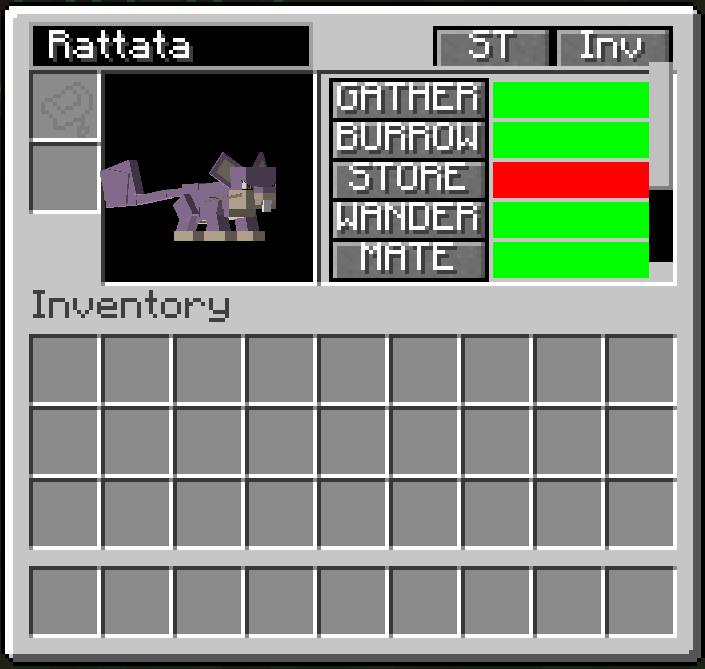
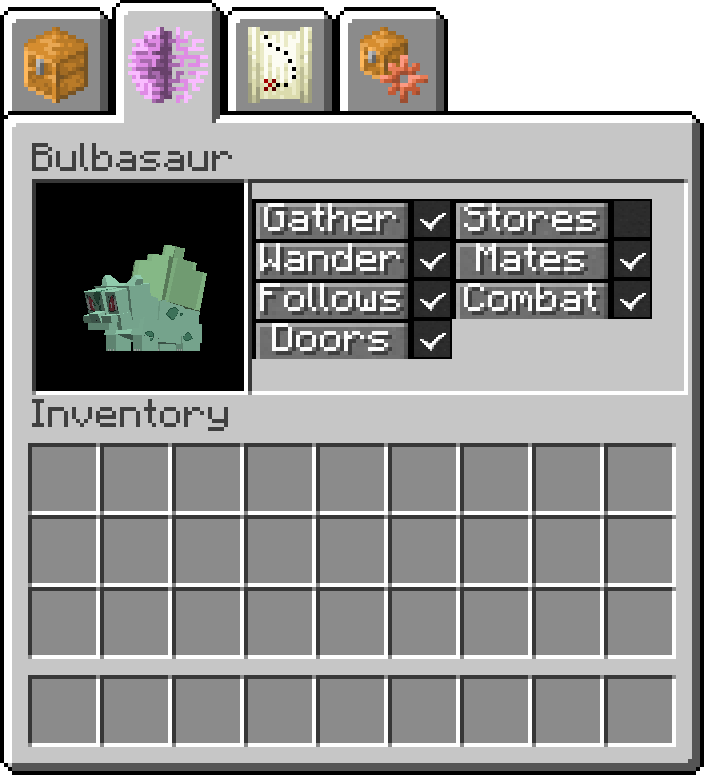
updates page about pokemob gui to include new design

diff --git a/source/getting_started/pokemob_gui.rst b/source/getting_started/pokemob_gui.rst
@@ -9,12 +9,12 @@ You're |pokemob| can be interacted with via right click. Doing so should display
 -  while the pokemob is wearing a saddle - sneaking will allow access to the gui.
 -  you are holding an item that is used on the |pokemob|, such as a pokedex
 
+Most of the buttons, text boxes and slots in this gui have tooltips which describe their function.
+
 |Pokemob| Gui Tabs
 ##################
 
-The |pokemob| gui is separated into a variety of tabs. The main tab is the :ref:`Inventory Tab<poke_inv_tab>`. The gui generally has buttons along the top right side of the screen, which allow changing to different tabs.
-
-Screens where the |pokemob|'s name is visible can be used to change the nickname of the |pokemob|. This can be done by typing a different name into the box, and pressing Enter.
+The |pokemob| gui is separated into a variety of tabs. The main tab is the :ref:`Inventory Tab<poke_inv_tab>`. The tabs are located along to top of the screen, which allow changing to different tabs. Each tab has a tooltip when hovored to display the name of the tab.
 
 .. _poke_inv_tab:
 
@@ -28,7 +28,7 @@ Screens where the |pokemob|'s name is visible can be used to change the nickname
    
    A |pokemob|'s main inventory screen
 
-This tab is selected via the buttons labelled ``inv``.
+This is the default tab for the |pokemob|'s gui.
 
 The |pokemob|'s main inventory screen consists if several important buttons and slots for interacting with it. These are in three main sections. 
 
@@ -55,6 +55,8 @@ Below the hunger bar are the main stance buttons for your pokemob. Red text indi
 
 A |pokemob| set to ``Stay`` will follow the rules defined in the :ref:`Routes Tab<poke_rt_tab>`. If your mob is rubberbanding or teleporting somewhere, it is most likely a mis-configuration of that tab!
 
+The box containing |pokemob|'s can be used to change the nickname of the |pokemob|. This can be done by typing a different name into the box, and pressing Enter.
+
 .. _poke_ai_tab:
 
 |Pokemob| AI Toggles
@@ -67,51 +69,27 @@ A |pokemob| set to ``Stay`` will follow the rules defined in the :ref:`Routes Ta
    
    A |pokemob|'s AI toggle screen
 
-This tab is selected via the buttons labelled ``AI``.
+This is the second tab.
 
 This screen is used to enable/disable various AI routines for the |pokemob|.
 
-Enabled routines have a green bar, and disabled ones have a red bar. If your flying |pokemob| refuses to fly, it is probably because of a setting in here! The names of the routines may be cut off due to lack of space.
+Enabled routines have a checked box, and disabled ones have an empty box. If your flying |pokemob| refuses to fly, it is probably because of a setting in here! The names of the routines may be cut off due to lack of space.
 
 AI Routines are as follows:
 
--   ``GATHER`` - if enabled, the |pokemob| might try to collect items if configured correctly
--   ``BEEAI`` - Bees only. If enabled, the |pokemob| will act somewhat like a vanilla bee
--   ``ANTAI`` - Ants only. If enabled, the |pokemob| may try to build ant nests
--   ``BURROWS`` - Burrowers only. If enabled, the |pokemob| might try to make burrows for nests
--   ``STORE`` - If enabled, the |pokemob| will try to store items in its configured inventory
--   ``WANDER`` - If enabled, the |pokemob| will occasionally try to walk to a random location nearby
--   ``MATE`` - If enabled, the |pokemob| will ocassionaly try to mate with another |pokemob|
--   ``FOLLOW`` - If enabled, the |pokemob| will path to its owner while not set to sit or stay
--   ``AGRESSIVE`` - If disabled, the |pokemob| will not try to fight anything.
--   ``AIRBORNE`` - If disabled, the |pokemob| will not be able to fly
--   ``USEDOORS`` - If enabled, the |pokemob| will be able to use doors like a villager
+-   ``Gather`` - if enabled, the |pokemob| might try to collect items if configured correctly
+-   ``Bee AI`` - Bees only. If enabled, the |pokemob| will act somewhat like a vanilla bee
+-   ``Ant AI`` - Ants only. If enabled, the |pokemob| may try to build ant nests
+-   ``Burrows`` - Burrowers only. If enabled, the |pokemob| might try to make burrows for nests
+-   ``Store`` - If enabled, the |pokemob| will try to store items in its configured inventory
+-   ``Wanders`` - If enabled, the |pokemob| will occasionally try to walk to a random location nearby
+-   ``Mates`` - If enabled, the |pokemob| will ocassionaly try to mate with another |pokemob|
+-   ``Follows`` - If enabled, the |pokemob| will path to its owner while not set to sit or stay
+-   ``Combat`` - If disabled, the |pokemob| will not try to fight anything.
+-   ``Airborne`` - If disabled, the |pokemob| will not be able to fly
+-   ``Doors`` - If enabled, the |pokemob| will be able to use doors like a villager
 
-The ``GATHER`` and ``STORE`` routines are related to the :ref:`Storage Tab<_poke_st_tab>` for the pokemob
-
-.. _poke_st_tab:
-
-|Pokemob| Storage
---------------------
-
-.. figure:: ../_images/pokemob_gui/pokemob_storage.png
-   :alt: |Pokemob| Storage tab
-   :name: pokemob_storage
-   :width: 600
-   
-   A |pokemob|'s Storage configuration screen
-
-This tab is selected via the buttons labelled ``ST``.
-
-The main feature of this tab are the 5 input boxes to the right of the |pokemob|'s picture. These are as follows:
-
--   ``BERRRY`` - This takes a coordinate set for an inventory to look for berries in
--   ``STORE`` - This takes a coordinate set for an inventory to put items in
--   ``SIDE`` - The side to try to place the items in the  ``STORE`` block
--   ``EMPTY`` - This takes a coordinate set for an inventory to take items out of
--   ``SIDE`` - the side to try to take the items from in the ``EMPTY`` block
-
-Most of the features for this gui require the |pokemob| to be set to Stay, and to have a proper wandering range setup in the :ref:`Routes Tab<poke_rt_tab>`. The coordinates for these options can be obtained via the :ref:`location_linker`.
+The ``Gather`` and ``Store`` routines are related to the :ref:`Storage Tab<_poke_st_tab>` for the pokemob
 
 .. _poke_rt_tab:
 
@@ -125,7 +103,7 @@ Most of the features for this gui require the |pokemob| to be set to Stay, and t
    
    A |pokemob|'s Routes configuration screen
 
-This tab is selected via the buttons labelled ``RT``.
+This is the third tab.
 
 This screen consists of a list of waypoints for the |pokemob|. It has the same format as the Guard Locations in the :ref:`Trainer Editor<edit_npc_ai>`. The button labelled ``btn`` is used to apply changes to this list. To delete an entry, press the ``X`` button followed by the ``Y`` button. To re-order entries, use the up and down arrow buttons below the ``btn``.
 
@@ -138,5 +116,29 @@ Each entry consists of 3 text boxes. They are as follows:
 -   ``stay location`` - coordinate set of where to stay.
 
 The coordinates for the ``stay location`` can be obtained via the :ref:`location_linker`. The ``Active times`` times are in day ticks, so ``0 24000`` would be the entire day. If your |pokemob| is rubberbanding back to a location, it is most likely that you have ``allowed distance`` too small for what it wants to do.
+
+.. _poke_st_tab:
+
+|Pokemob| Storage
+--------------------
+
+.. figure:: ../_images/pokemob_gui/pokemob_storage.png
+   :alt: |Pokemob| Storage tab
+   :name: pokemob_storage
+   :width: 600
+   
+   A |pokemob|'s Storage configuration screen
+
+This is the fourth tab.
+
+The main feature of this tab are the 5 input boxes to the right of the |pokemob|'s picture. These are as follows:
+
+-   ``Berry`` - This takes a coordinate set for an inventory to look for berries in
+-   ``Store`` - This takes a coordinate set for an inventory to put items in
+-   ``Side`` - The side to try to place the items in the  ``Store`` block
+-   ``Empty`` - This takes a coordinate set for an inventory to take items out of
+-   ``Side`` - the side to try to take the items from in the ``Empty`` block
+
+Most of the features for this gui require the |pokemob| to be set to Stay, and to have a proper wandering range setup in the :ref:`Routes Tab<poke_rt_tab>`. The coordinates for these options can be obtained via the :ref:`location_linker`. The offhand slot is also visible in this tab, as written books can be used there to assign valid item filters for the Empty task.
 
 .. include:: ../.shared.rst

diff --git a/source/getting_started/index.rst b/source/getting_started/index.rst
@@ -19,7 +19,7 @@ FAQ and Common Issues
 
 -  How do I do <X>
 
-   Check if there is a hotkey you can assin for <X> in the controls section of the minecraft options.
+   Check if there is a hotkey you can assign for <X> in the controls section of the Minecraft options.
 
 -  I Died, where did my |pokemobs| go?
 
